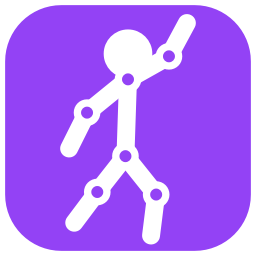
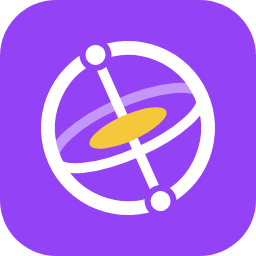
feat: rebrand the showcase site to Gyra
- Emote Studio renamed to Gyra on the FR and EN pages (title, navigation, download, footer)
- Gyra.exe and the gyra MCP command instead of EmoteStudio.exe
- New gyroscope icon

diff --git a/index.html b/index.html
@@ -3,7 +3,7 @@
 <head>
   <meta charset="utf-8">
   <meta name="viewport" content="width=device-width, initial-scale=1">
-  <title>Emote Studio pour FiveM</title>
+  <title>Gyra — studio d'emotes FiveM</title>
   <meta name="description" content="Crée des emotes FiveM à partir d'une vidéo ou de ta webcam, retouche-les en 3D sur le vrai squelette GTA V et exporte une ressource prête à streamer.">
   <link rel="alternate" hreflang="fr" href="./">
   <link rel="alternate" hreflang="en" href="en/">
@@ -18,7 +18,7 @@
     <div class="wrap nav-row">
       <a class="brand" href="#">
         <img src="assets/icon.png" alt="" width="28" height="28">
-        <span>Emote Studio</span>
+        <span>Gyra</span>
       </a>
       <nav class="links" aria-label="Sections">
         <a href="#etapes">Fonctionnement</a>
@@ -44,7 +44,7 @@
           <p class="meta">Version 0.2.0 · Windows 10 et 11, 64 bits · sans installation</p>
         </div>
         <figure class="window hero-shot">
-          <img src="assets/studio.png" width="1456" height="939" alt="Emote Studio : ped au bras levé tenant un téléphone, arbre des os à gauche, inspecteur et props à droite, timeline en bas">
+          <img src="assets/studio.png" width="1456" height="939" alt="Gyra : ped au bras levé tenant un téléphone, arbre des os à gauche, inspecteur et props à droite, timeline en bas">
         </figure>
       </div>
     </section>
@@ -129,14 +129,14 @@
     <section id="ia" class="section">
       <div class="wrap split-grid">
         <pre class="tree"><code><span class="dim"># une seule commande pour brancher Claude</span>
-claude mcp add emote-studio -- EmoteStudio.exe mcp
+claude mcp add gyra -- Gyra.exe mcp
 
 <span class="dim"># puis, en langage naturel</span>
 « Lève le bras droit pour un salut,
   boucle sur 2 secondes, exporte-le »</code></pre>
         <div>
           <h2>Pilotable par une IA, en direct</h2>
-          <p><code>EmoteStudio.exe mcp</code> est un serveur MCP : une IA comme Claude pose des clés, déplace les membres, ajoute des props, prend un rendu pour vérifier son travail et exporte la ressource.</p>
+          <p><code>Gyra.exe mcp</code> est un serveur MCP : une IA comme Claude pose des clés, déplace les membres, ajoute des props, prend un rendu pour vérifier son travail et exporte la ressource.</p>
           <ul class="facts">
             <li>Chaque modification apparaît dans la fenêtre et s'annule avec Ctrl+Z</li>
             <li>Le studio est lancé automatiquement s'il est fermé</li>
@@ -160,8 +160,8 @@ claude mcp add emote-studio -- EmoteStudio.exe mcp
 
     <section id="telecharger" class="section download">
       <div class="wrap">
-        <h2>Télécharger Emote Studio</h2>
-        <p>Un dossier autonome d'environ 215 Mo : décompresse-le et lance <code>EmoteStudio.exe</code>. Ni .NET ni runtime Visual C++ à installer.</p>
+        <h2>Télécharger Gyra</h2>
+        <p>Un dossier autonome d'environ 215 Mo : décompresse-le et lance <code>Gyra.exe</code>. Ni .NET ni runtime Visual C++ à installer.</p>
         <dl class="specs">
           <div><dt>Version</dt><dd>0.2.0</dd></div>
           <div><dt>Système</dt><dd>Windows 10 ou 11, 64 bits</dd></div>
@@ -178,7 +178,7 @@ claude mcp add emote-studio -- EmoteStudio.exe mcp
 
   <footer class="footer">
     <div class="wrap footer-row">
-      <span>Emote Studio 0.2.0 · <a href="https://www.patreon.com/cw/Justekal" rel="noopener">Patreon</a> · <a href="https://x.com/gyrateam" rel="noopener">X</a></span>
+      <span>Gyra 0.2.0 · <a href="https://www.patreon.com/cw/Justekal" rel="noopener">Patreon</a> · <a href="https://x.com/gyrateam" rel="noopener">X</a></span>
       <span>Projet indépendant, sans lien avec Rockstar Games ni Cfx.re. GTA V et FiveM appartiennent à leurs détenteurs.</span>
     </div>
   </footer>

diff --git a/en/index.html b/en/index.html
@@ -3,7 +3,7 @@
 <head>
   <meta charset="utf-8">
   <meta name="viewport" content="width=device-width, initial-scale=1">
-  <title>Emote Studio for FiveM</title>
+  <title>Gyra — FiveM emote studio</title>
   <meta name="description" content="Create FiveM emotes from a video or your webcam, polish them in 3D on the real GTA V skeleton and export a stream-ready resource.">
   <link rel="alternate" hreflang="fr" href="../">
   <link rel="alternate" hreflang="en" href="./">
@@ -18,7 +18,7 @@
     <div class="wrap nav-row">
       <a class="brand" href="#">
         <img src="../assets/icon.png" alt="" width="28" height="28">
-        <span>Emote Studio</span>
+        <span>Gyra</span>
       </a>
       <nav class="links" aria-label="Sections">
         <a href="#steps">How it works</a>
@@ -44,7 +44,7 @@
           <p class="meta">Version 0.2.0 · Windows 10 and 11, 64-bit · no installation</p>
         </div>
         <figure class="window hero-shot">
-          <img src="../assets/studio.png" width="1456" height="939" alt="Emote Studio: ped with a raised arm holding a phone, bone tree on the left, inspector and props on the right, timeline at the bottom">
+          <img src="../assets/studio.png" width="1456" height="939" alt="Gyra: ped with a raised arm holding a phone, bone tree on the left, inspector and props on the right, timeline at the bottom">
         </figure>
       </div>
     </section>
@@ -129,14 +129,14 @@
     <section id="ai" class="section">
       <div class="wrap split-grid">
         <pre class="tree"><code><span class="dim"># a single command to connect Claude</span>
-claude mcp add emote-studio -- EmoteStudio.exe mcp
+claude mcp add gyra -- Gyra.exe mcp
 
 <span class="dim"># then, in plain language</span>
 "Raise the right arm for a wave,
  loop it over 2 seconds, export it"</code></pre>
         <div>
           <h2>AI-controllable, live</h2>
-          <p><code>EmoteStudio.exe mcp</code> is an MCP server: an AI such as Claude sets keys, moves limbs, adds props, takes a render to check its work and exports the resource.</p>
+          <p><code>Gyra.exe mcp</code> is an MCP server: an AI such as Claude sets keys, moves limbs, adds props, takes a render to check its work and exports the resource.</p>
           <ul class="facts">
             <li>Every change shows up in the window and can be undone with Ctrl+Z</li>
             <li>The studio is launched automatically if it is closed</li>
@@ -160,8 +160,8 @@ claude mcp add emote-studio -- EmoteStudio.exe mcp
 
     <section id="download" class="section download">
       <div class="wrap">
-        <h2>Download Emote Studio</h2>
-        <p>A self-contained folder of about 215 MB: unzip it and run <code>EmoteStudio.exe</code>. No .NET or Visual C++ runtime to install.</p>
+        <h2>Download Gyra</h2>
+        <p>A self-contained folder of about 215 MB: unzip it and run <code>Gyra.exe</code>. No .NET or Visual C++ runtime to install.</p>
         <dl class="specs">
           <div><dt>Version</dt><dd>0.2.0</dd></div>
           <div><dt>System</dt><dd>Windows 10 or 11, 64-bit</dd></div>
@@ -178,7 +178,7 @@ claude mcp add emote-studio -- EmoteStudio.exe mcp
 
   <footer class="footer">
     <div class="wrap footer-row">
-      <span>Emote Studio 0.2.0 · <a href="https://www.patreon.com/cw/Justekal" rel="noopener">Patreon</a> · <a href="https://x.com/gyrateam" rel="noopener">X</a></span>
+      <span>Gyra 0.2.0 · <a href="https://www.patreon.com/cw/Justekal" rel="noopener">Patreon</a> · <a href="https://x.com/gyrateam" rel="noopener">X</a></span>
       <span>Independent project, not affiliated with Rockstar Games or Cfx.re. GTA V and FiveM belong to their respective owners.</span>
     </div>
   </footer>

diff --git a/styles.css b/styles.css
@@ -1,4 +1,4 @@
-/* Emote Studio : site vitrine. Même palette que le studio (graphite, accent violet aplat),
+/* Gyra : site vitrine. Même palette que le studio (graphite, accent violet aplat),
    losange jaune des clés de la timeline comme signe distinctif. */
 
 :root {

diff --git a/README.md b/README.md
@@ -1,6 +1,6 @@
-# Emote Studio : site vitrine
+# Gyra : site vitrine
 
-Page statique (HTML et CSS, aucune dépendance ni build) qui présente Emote Studio, l'éditeur d'emotes GTA V / FiveM.
+Page statique (HTML et CSS, aucune dépendance ni build) qui présente Gyra, l'éditeur d'emotes GTA V / FiveM.
 
 - `index.html` : le contenu, en français ;
 - `en/index.html` : la version anglaise (mêmes styles et images ; lien FR / EN dans la barre de navigation) ;
